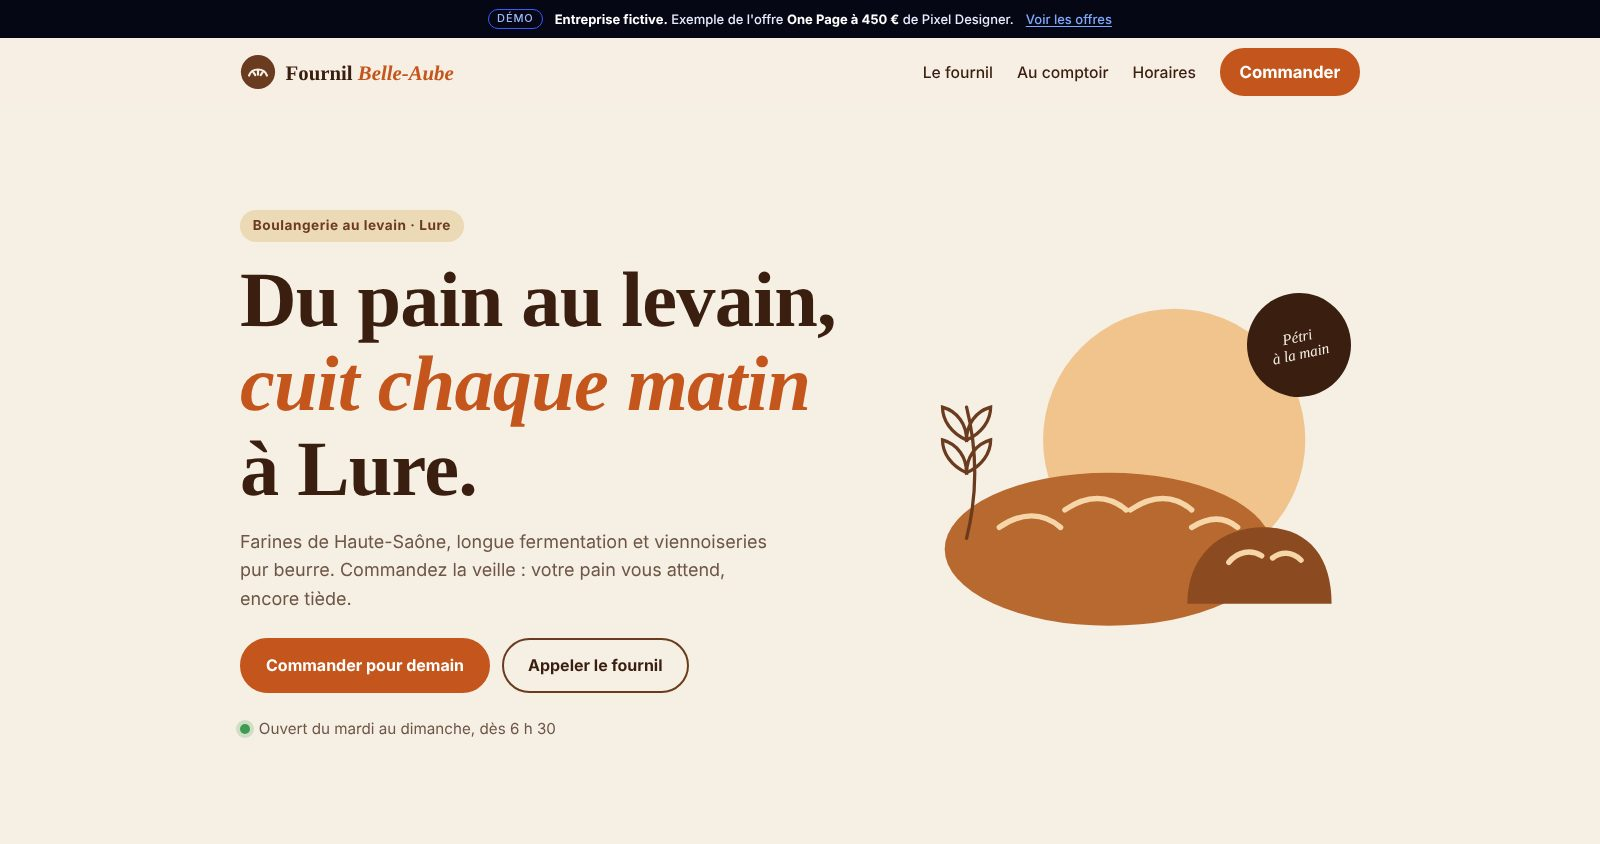
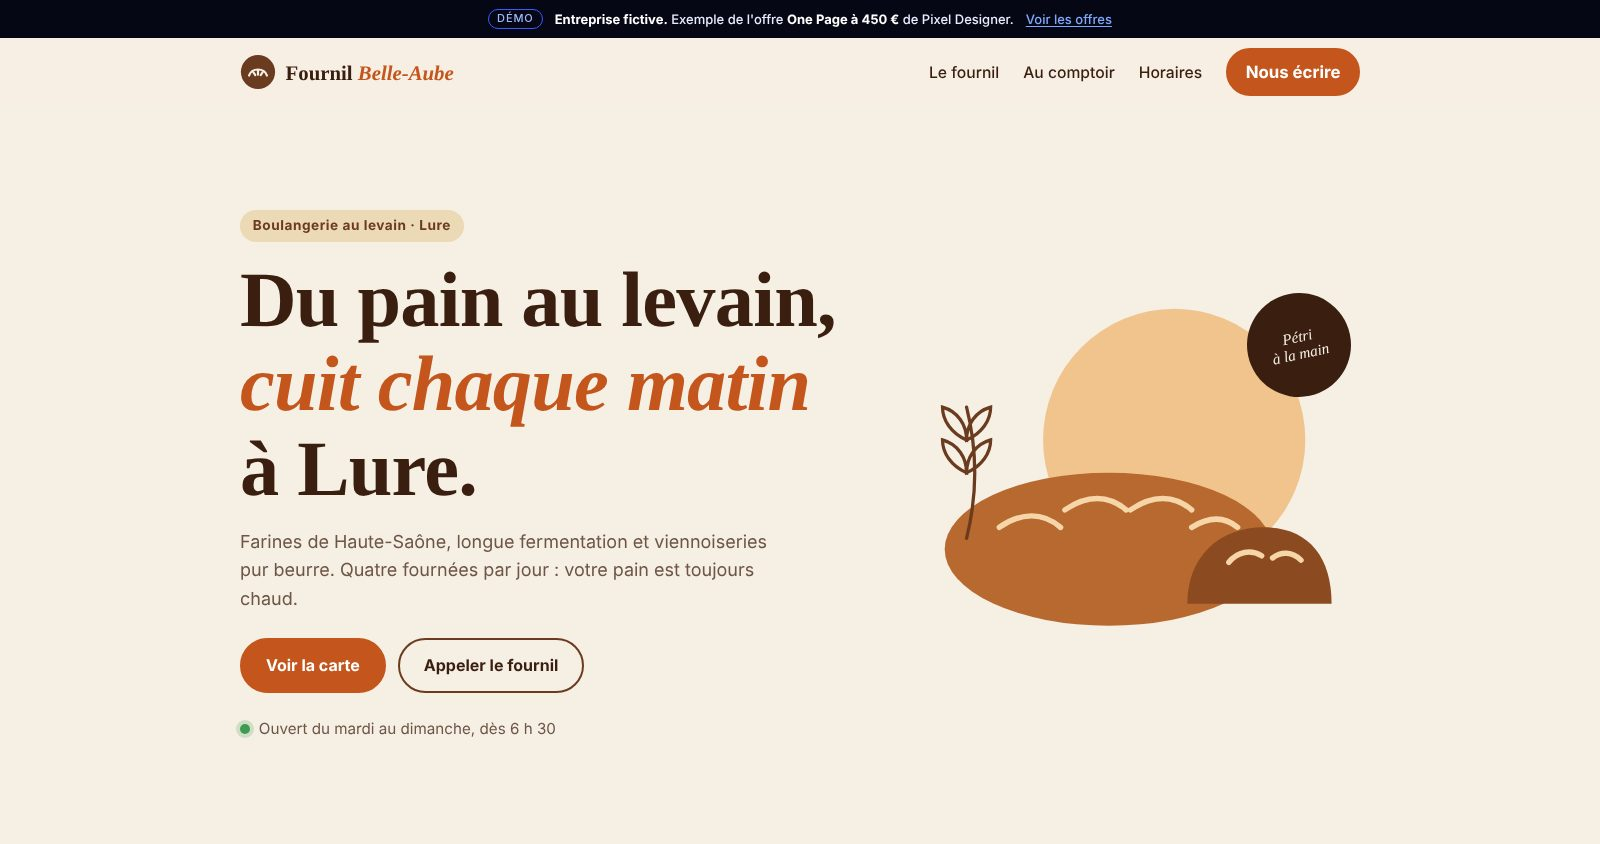
Démos One Page et Vitrine Pro : retire tout ce qui suppose une base de données
- Fournil Belle-Aube : plus de commande en ligne ; le formulaire devient un simple formulaire de contact (inclus dans le One Page), boutons et textes adaptés
- Hydra Confort : plus de « prochain créneau disponible » ni de rappel automatique ; le formulaire de devis reste un simple formulaire de contact
- Pages de confidentialité, carte du carrousel et captures mises à jour

Claude-Session: https://claude.ai/code/session_015nWsnu2XVsU4omenUZcXYH

diff --git a/demos/fournil-belle-aube/index.html b/demos/fournil-belle-aube/index.html
@@ -4,7 +4,7 @@
     <meta charset="UTF-8">
     <meta name="viewport" content="width=device-width, initial-scale=1">
     <title>Boulangerie au levain à Lure | Fournil Belle-Aube (démo)</title>
-    <meta name="description" content="Site de démonstration One Page réalisé par Pixel Designer pour une boulangerie fictive de Lure : horaires, produits, commande en ligne.">
+    <meta name="description" content="Site de démonstration One Page réalisé par Pixel Designer pour une boulangerie fictive de Lure : horaires, produits et formulaire de contact.">
     <meta name="robots" content="noindex, follow">
     <link rel="canonical" href="https://pixeldesigner.fr/demos/fournil-belle-aube/">
     <meta name="theme-color" content="#f6efe4">
@@ -31,7 +31,7 @@
                 <a href="#fournil">Le fournil</a>
                 <a href="#comptoir">Au comptoir</a>
                 <a href="#horaires">Horaires</a>
-                <a class="btn btn-small" href="#commande">Commander</a>
+                <a class="btn btn-small" href="#contact">Nous écrire</a>
             </nav>
         </div>
     </header>
@@ -42,9 +42,9 @@
                 <div class="hero-text">
                     <p class="eyebrow" data-reveal>Boulangerie au levain · Lure</p>
                     <h1 data-reveal>Du pain au levain, <em>cuit chaque matin</em> à Lure.</h1>
-                    <p class="hero-sub" data-reveal>Farines de Haute-Saône, longue fermentation et viennoiseries pur beurre. Commandez la veille&nbsp;: votre pain vous attend, encore tiède.</p>
+                    <p class="hero-sub" data-reveal>Farines de Haute-Saône, longue fermentation et viennoiseries pur beurre. Quatre fournées par jour&nbsp;: votre pain est toujours chaud.</p>
                     <div class="hero-cta" data-reveal>
-                        <a class="btn" href="#commande">Commander pour demain</a>
+                        <a class="btn" href="#comptoir">Voir la carte</a>
                         <a class="btn btn-line" href="#" data-demo="Démo : sur le vrai site, ce bouton appelle la boulangerie en un clic.">Appeler le fournil</a>
                     </div>
                     <p class="hero-open" data-reveal><span class="dot" aria-hidden="true"></span>Ouvert du mardi au dimanche, dès 6&nbsp;h&nbsp;30</p>
@@ -69,8 +69,8 @@
 
         <div class="ticker" aria-hidden="true">
             <div class="ticker-track">
-                <span>Pain au levain</span><span>Baguette de tradition</span><span>Viennoiseries pur beurre</span><span>Tarte aux mirabelles</span><span>Farines de Haute-Saône</span><span>Commande la veille</span>
-                <span>Pain au levain</span><span>Baguette de tradition</span><span>Viennoiseries pur beurre</span><span>Tarte aux mirabelles</span><span>Farines de Haute-Saône</span><span>Commande la veille</span>
+                <span>Pain au levain</span><span>Baguette de tradition</span><span>Viennoiseries pur beurre</span><span>Tarte aux mirabelles</span><span>Farines de Haute-Saône</span><span>Quatre fournées par jour</span>
+                <span>Pain au levain</span><span>Baguette de tradition</span><span>Viennoiseries pur beurre</span><span>Tarte aux mirabelles</span><span>Farines de Haute-Saône</span><span>Quatre fournées par jour</span>
             </div>
         </div>
 
@@ -114,8 +114,8 @@
             <div class="wrap comptoir">
                 <div class="comptoir-head" data-reveal>
                     <h2>Au comptoir <em>cette semaine</em></h2>
-                    <p>Une carte courte, cuite en petites fournées. Les pains spéciaux partent vite&nbsp;: réservez-les.</p>
-                    <a class="btn" href="#commande">Réserver un pain</a>
+                    <p>Une carte courte, cuite en petites fournées. Les pains spéciaux partent vite&nbsp;: passez tôt.</p>
+                    <a class="btn" href="#horaires">Voir les horaires</a>
                 </div>
                 <div class="menu-cols">
                     <div class="menu" data-reveal>
@@ -176,38 +176,34 @@
             </div>
         </section>
 
-        <section class="section" id="commande">
+        <section class="section" id="contact">
             <div class="wrap commande">
                 <div class="commande-text" data-reveal>
-                    <h2>Commandez <em>la veille</em>, retirez le matin</h2>
-                    <p>Indiquez ce que vous voulez et l'heure de passage. Nous vous rappelons seulement s'il y a un souci.</p>
+                    <h2>Une question&nbsp;? <em>Écrivez&#8209;nous</em></h2>
+                    <p>Un gâteau pour un anniversaire, un plateau pour une réunion, une question sur nos farines&nbsp;: laissez-nous un message, nous vous rappelons.</p>
                     <ul class="checks" role="list">
-                        <li>Réponse avant 19&nbsp;h pour le lendemain</li>
-                        <li>Paiement sur place, sans compte à créer</li>
-                        <li>Idéal pour les repas de famille du dimanche</li>
+                        <li>Réponse dans la journée</li>
+                        <li>Pour les gâteaux, prévoyez 48 h</li>
+                        <li>Ou passez directement au comptoir</li>
                     </ul>
                 </div>
-                <form class="form" data-reveal data-demo-form="Merci ! Votre commande est notée pour demain matin. (Démo : rien n'a été envoyé.)">
+                <form class="form" data-reveal data-demo-form="Merci ! Votre message est bien parti, nous vous rappelons dans la journée. (Démo : rien n'a été envoyé.)">
                     <div class="field">
                         <label for="nom">Votre nom</label>
                         <input id="nom" name="nom" type="text" autocomplete="name" required>
                     </div>
                     <div class="field">
-                        <label for="tel">Téléphone</label>
-                        <input id="tel" name="tel" type="tel" autocomplete="tel" inputmode="tel" required>
+                        <label for="tel">Téléphone ou e-mail</label>
+                        <input id="tel" name="contact" type="text" autocomplete="email" required>
                     </div>
                     <div class="field">
-                        <label for="produit">Votre commande</label>
-                        <textarea id="produit" name="produit" rows="3" placeholder="Ex. : 1 campagne, 2 baguettes, 4 croissants" required></textarea>
-                    </div>
-                    <div class="field">
-                        <label for="jour">Jour de retrait</label>
-                        <input id="jour" name="jour" type="date" required>
+                        <label for="message">Votre message</label>
+                        <textarea id="message" name="message" rows="4" placeholder="Ex. : un fraisier pour 10 personnes samedi, c'est possible ?" required></textarea>
                     </div>
                     <p class="hp" aria-hidden="true"><label>Ne pas remplir <input name="site" tabindex="-1" autocomplete="off"></label></p>
-                    <button class="btn btn-full" type="submit">Envoyer ma commande</button>
+                    <button class="btn btn-full" type="submit">Envoyer mon message</button>
                     <p class="form-status" data-form-status role="status"></p>
-                    <p class="rgpd">Vos coordonnées servent uniquement à préparer votre commande. <a href="confidentialite.html">Confidentialité</a></p>
+                    <p class="rgpd">Vos coordonnées servent uniquement à vous répondre. <a href="confidentialite.html">Confidentialité</a></p>
                 </form>
             </div>
         </section>
@@ -219,7 +215,7 @@
                     <p class="section-sub">Une autre question&nbsp;? Posez-la au comptoir ou par téléphone.</p>
                 </div>
                 <div class="faq" data-stagger="80">
-                    <details data-reveal><summary>Puis-je commander pour le jour même&nbsp;?</summary><div><p>Oui, avant 10 h pour un retrait l'après-midi, dans la limite des fournées du jour. Pour être sûr d'avoir votre pain, commandez la veille.</p></div></details>
+                    <details data-reveal><summary>Peut-on vous mettre un pain de côté&nbsp;?</summary><div><p>Oui, appelez-nous le matin et nous le gardons jusqu'à 18 h.</p></div></details>
                     <details data-reveal><summary>Faites-vous du pain sans gluten&nbsp;?</summary><div><p>Non. Toutes nos farines contiennent du gluten et nous ne pouvons pas garantir l'absence de traces. Nous préférons vous le dire clairement.</p></div></details>
                     <details data-reveal><summary>Peut-on payer par carte&nbsp;?</summary><div><p>Oui, par carte et sans contact dès 1&nbsp;€, ou en espèces.</p></div></details>
                     <details data-reveal><summary>Où trouver la liste des allergènes&nbsp;?</summary><div><p>Elle est affichée au comptoir pour chaque produit. Demandez-nous, on vous explique.</p></div></details>
@@ -275,7 +271,7 @@
 
     <nav class="call-bar" aria-label="Actions rapides">
         <a href="#" data-demo="Démo : sur le vrai site, ce bouton appelle la boulangerie en un clic.">Appeler</a>
-        <a href="#commande">Commander</a>
+        <a href="#contact">Nous écrire</a>
     </nav>
 </body>
 </html>

diff --git a/demos/fournil-belle-aube/confidentialite.html b/demos/fournil-belle-aube/confidentialite.html
@@ -31,7 +31,7 @@
                 <a href="index.html#fournil">Le fournil</a>
                 <a href="index.html#comptoir">Au comptoir</a>
                 <a href="index.html#horaires">Horaires</a>
-                <a class="btn btn-small" href="index.html#commande">Commander</a>
+                <a class="btn btn-small" href="index.html#contact">Nous écrire</a>
             </nav>
         </div>
     </header>
@@ -42,14 +42,14 @@
                 <p class="legal-kicker" data-reveal>Vos données</p>
                 <h1 data-reveal>Politique de confidentialité</h1>
                 <p class="legal-lead" data-reveal>Ce que ce site fait, et ne fait pas, de vos informations.</p>
-                <p class="legal-note" data-reveal><strong>Site de démonstration.</strong> Fournil Belle-Aube est une entreprise fictive. Le formulaire de commande de cette démo n'envoie rien : aucune donnée n'est transmise ni conservée.</p>
+                <p class="legal-note" data-reveal><strong>Site de démonstration.</strong> Fournil Belle-Aube est une entreprise fictive. Le formulaire de contact de cette démo n'envoie rien : aucune donnée n'est transmise ni conservée.</p>
 
                 <h2>Responsable du traitement</h2>
                 <p>Pixel Designer, Rayan Robert (EI), 5 Route de la Saline, 70200 Lure. Contact&nbsp;: <a href="mailto:studio.pixeldesigner@proton.me">studio.pixeldesigner@proton.me</a>.</p>
 
                 <h2>Données collectées</h2>
                 <ul>
-                    <li><strong>Formulaire de commande</strong>&nbsp;: nom, téléphone, commande et jour de retrait. Dans cette démo, rien n'est envoyé&nbsp;: les champs sont vidés dès que vous validez.</li>
+                    <li><strong>Formulaire de contact</strong>&nbsp;: nom, téléphone ou e-mail, et message. Dans cette démo, rien n'est envoyé&nbsp;: les champs sont vidés dès que vous validez.</li>
                     <li><strong>Aucune autre donnée</strong>&nbsp;: pas de compte, pas de suivi de navigation.</li>
                 </ul>
 
@@ -60,7 +60,7 @@
                 <p>Le site est hébergé par GitHub Pages (GitHub, Inc., États-Unis). Comme tout hébergeur, GitHub peut enregistrer des données techniques de connexion (adresse IP, navigateur) pour la sécurité du service. Ces transferts sont encadrés par les clauses contractuelles types de la Commission européenne.</p>
 
                 <h2>Sur le site d'un vrai client</h2>
-                <p>Les formulaires envoient réellement les demandes au professionnel, par un service d'envoi sécurisé. Les informations servent uniquement à répondre et à organiser le rendez-vous (préparer la commande). Elles sont conservées au maximum 3 ans après le dernier contact, puis supprimées, et ne sont jamais vendues.</p>
+                <p>Les formulaires envoient réellement les demandes au professionnel, par un service d'envoi sécurisé. Les informations servent uniquement à répondre à la demande. Elles sont conservées au maximum 3 ans après le dernier contact, puis supprimées, et ne sont jamais vendues.</p>
 
                 <h2>Vos droits</h2>
                 <p>Conformément au RGPD, vous pouvez demander l'accès, la rectification ou la suppression de vos données, et vous opposer à leur traitement. Écrivez à <a href="mailto:studio.pixeldesigner@proton.me">studio.pixeldesigner@proton.me</a>. Vous pouvez aussi saisir la CNIL (<a href="https://www.cnil.fr" target="_blank" rel="noopener">cnil.fr</a>).</p>

diff --git a/demos/hydra-confort/prestations.html b/demos/hydra-confort/prestations.html
@@ -77,8 +77,8 @@
                     <div class="presta-visual"><span class="presta-ico"><svg class="ico" viewBox="0 0 24 24" aria-hidden="true"><path d="M12 22s8-4 8-10V5l-8-3-8 3v7c0 6 8 10 8 10z"/><path d="m9 12 2 2 4-4"/></svg></span></div>
                     <div class="presta-text">
                         <h2>Entretien annuel</h2>
-                        <p>L'entretien de chaudière est obligatoire chaque année. Nous vous rappelons la date, vous n'avez rien à suivre.</p>
-                        <ul class="list-check" role="list"><li><svg class="ico ico-sm" viewBox="0 0 24 24" aria-hidden="true"><path d="M20 6 9 17l-5-5"/></svg>Contrôle et nettoyage complet</li><li><svg class="ico ico-sm" viewBox="0 0 24 24" aria-hidden="true"><path d="M20 6 9 17l-5-5"/></svg>Attestation d'entretien</li><li><svg class="ico ico-sm" viewBox="0 0 24 24" aria-hidden="true"><path d="M20 6 9 17l-5-5"/></svg>Rappel automatique chaque année</li><li><svg class="ico ico-sm" viewBox="0 0 24 24" aria-hidden="true"><path d="M20 6 9 17l-5-5"/></svg>Contrat sur demande</li></ul>
+                        <p>L'entretien de chaudière est obligatoire chaque année. Nous vous appelons quand la date approche, vous n'avez rien à suivre.</p>
+                        <ul class="list-check" role="list"><li><svg class="ico ico-sm" viewBox="0 0 24 24" aria-hidden="true"><path d="M20 6 9 17l-5-5"/></svg>Contrôle et nettoyage complet</li><li><svg class="ico ico-sm" viewBox="0 0 24 24" aria-hidden="true"><path d="M20 6 9 17l-5-5"/></svg>Attestation d'entretien</li><li><svg class="ico ico-sm" viewBox="0 0 24 24" aria-hidden="true"><path d="M20 6 9 17l-5-5"/></svg>Appel de rappel chaque année</li><li><svg class="ico ico-sm" viewBox="0 0 24 24" aria-hidden="true"><path d="M20 6 9 17l-5-5"/></svg>Contrat sur demande</li></ul>
                         <a class="btn btn-small" href="contact.html">Demander un devis</a>
                     </div>
                 </article>

diff --git a/demos/cycles-du-breuchin/confidentialite.html b/demos/cycles-du-breuchin/confidentialite.html
@@ -63,7 +63,7 @@
                 <p>Le site est hébergé par GitHub Pages (GitHub, Inc., États-Unis). Comme tout hébergeur, GitHub peut enregistrer des données techniques de connexion (adresse IP, navigateur) pour la sécurité du service. Ces transferts sont encadrés par les clauses contractuelles types de la Commission européenne.</p>
 
                 <h2>Sur le site d'un vrai client</h2>
-                <p>Les formulaires envoient réellement les demandes au professionnel, par un service d'envoi sécurisé. Les informations servent uniquement à répondre et à organiser le rendez-vous, prévenir le client quand son vélo est prêt (SMS), et sont stockées dans une base de données protégée, accessible au seul atelier. Elles sont conservées au maximum 3 ans après le dernier contact, puis supprimées, et ne sont jamais vendues.</p>
+                <p>Les formulaires envoient réellement les demandes au professionnel, par un service d'envoi sécurisé. Les informations servent uniquement à répondre à la demande, à organiser le rendez-vous, à prévenir le client quand son vélo est prêt (SMS), et sont stockées dans une base de données protégée, accessible au seul atelier. Elles sont conservées au maximum 3 ans après le dernier contact, puis supprimées, et ne sont jamais vendues.</p>
 
                 <h2>Vos droits</h2>
                 <p>Conformément au RGPD, vous pouvez demander l'accès, la rectification ou la suppression de vos données, et vous opposer à leur traitement. Écrivez à <a href="mailto:studio.pixeldesigner@proton.me">studio.pixeldesigner@proton.me</a>. Vous pouvez aussi saisir la CNIL (<a href="https://www.cnil.fr" target="_blank" rel="noopener">cnil.fr</a>).</p>

diff --git a/demos/hydra-confort/index.html b/demos/hydra-confort/index.html
@@ -56,13 +56,13 @@
                 <div class="hero-visual" aria-hidden="true" data-parallax="0.05">
                     <svg class="pipes" viewBox="0 0 400 400"><path d="M40 360V220a40 40 0 0 1 40-40h120a40 40 0 0 0 40-40V40"/><path d="M360 360V280a40 40 0 0 0-40-40h-40"/><circle cx="240" cy="40" r="14"/><circle cx="40" cy="360" r="14"/></svg>
                     <div class="widget">
-                        <p class="widget-label">Prochain créneau</p>
-                        <p class="widget-value">Demain, 8&nbsp;h</p>
-                        <p class="widget-meta"><span class="live"></span> Technicien disponible</p>
+                        <p class="widget-label">Devis</p>
+                        <p class="widget-value">Gratuit</p>
+                        <p class="widget-meta"><span class="live"></span> Réponse sous 24 h ouvrées</p>
                     </div>
                     <div class="widget widget-2">
                         <span class="widget-ico"><svg class="ico" viewBox="0 0 24 24" aria-hidden="true"><path d="M8.5 14.5A2.5 2.5 0 0 0 11 12c0-1.4-.5-2-1-3-1.1-2.1-.2-4.1 2-6 .5 2.5 2 4.9 4 6.5 2 1.6 3 3.5 3 5.5a7 7 0 1 1-14 0c0-1.2.4-2.3 1-3.4.4 1.6 1.4 2.9 2.5 2.9z"/></svg></span>
-                        <div><p class="widget-label">Entretien chaudière</p><p class="widget-meta">Rappel envoyé chaque année</p></div>
+                        <div><p class="widget-label">Urgence fuite</p><p class="widget-meta">Le samedi matin aussi</p></div>
                     </div>
                 </div>
             </div>

diff --git a/demos/hydra-confort/confidentialite.html b/demos/hydra-confort/confidentialite.html
@@ -60,7 +60,7 @@
                 <p>Le site est hébergé par GitHub Pages (GitHub, Inc., États-Unis). Comme tout hébergeur, GitHub peut enregistrer des données techniques de connexion (adresse IP, navigateur) pour la sécurité du service. Ces transferts sont encadrés par les clauses contractuelles types de la Commission européenne.</p>
 
                 <h2>Sur le site d'un vrai client</h2>
-                <p>Les formulaires envoient réellement les demandes au professionnel, par un service d'envoi sécurisé. Les informations servent uniquement à répondre et à organiser le rendez-vous (établir le devis). Elles sont conservées au maximum 3 ans après le dernier contact, puis supprimées, et ne sont jamais vendues.</p>
+                <p>Les formulaires envoient réellement les demandes au professionnel, par un service d'envoi sécurisé. Les informations servent uniquement à répondre à la demande et à établir le devis. Elles sont conservées au maximum 3 ans après le dernier contact, puis supprimées, et ne sont jamais vendues.</p>
 
                 <h2>Vos droits</h2>
                 <p>Conformément au RGPD, vous pouvez demander l'accès, la rectification ou la suppression de vos données, et vous opposer à leur traitement. Écrivez à <a href="mailto:studio.pixeldesigner@proton.me">studio.pixeldesigner@proton.me</a>. Vous pouvez aussi saisir la CNIL (<a href="https://www.cnil.fr" target="_blank" rel="noopener">cnil.fr</a>).</p>

diff --git a/demos/fournil-belle-aube/mentions-legales.html b/demos/fournil-belle-aube/mentions-legales.html
@@ -31,7 +31,7 @@
                 <a href="index.html#fournil">Le fournil</a>
                 <a href="index.html#comptoir">Au comptoir</a>
                 <a href="index.html#horaires">Horaires</a>
-                <a class="btn btn-small" href="index.html#commande">Commander</a>
+                <a class="btn btn-small" href="index.html#contact">Nous écrire</a>
             </nav>
         </div>
     </header>
@@ -71,7 +71,7 @@
                 <p>Les textes, illustrations, logos et la mise en page de ce site sont la propriété de Pixel Designer. Le nom «&nbsp;Fournil Belle-Aube&nbsp;», son logo et ses coordonnées sont inventés pour la démonstration&nbsp;: toute ressemblance avec une entreprise existante serait fortuite. Toute reproduction est interdite sans autorisation écrite.</p>
 
                 <h2>Données personnelles</h2>
-                <p>Le formulaire de commande de cette démo n'envoie rien : aucune donnée n'est transmise ni conservée. Le détail figure dans la <a href="confidentialite.html">politique de confidentialité</a>.</p>
+                <p>Le formulaire de contact de cette démo n'envoie rien : aucune donnée n'est transmise ni conservée. Le détail figure dans la <a href="confidentialite.html">politique de confidentialité</a>.</p>
 
                 <p class="legal-updated">Dernière mise à jour&nbsp;: 17 novembre 2026.</p>
             </div>

diff --git a/index.html b/index.html
@@ -377,10 +377,10 @@
                             <div class="work-info">
                                 <p class="meta"><span>Démo One Page · Lure</span><span>Nov. 2026</span></p>
                                 <h3 class="work-title">Fournil Belle-Aube</h3>
-                                <p class="muted">Boulangerie fictive, créée pour montrer l'offre One Page à 450 € : une seule page claire, la carte, les horaires et la commande en ligne.</p>
+                                <p class="muted">Boulangerie fictive, créée pour montrer l'offre One Page à 450 € : une seule page claire avec la carte, les horaires et un formulaire de contact.</p>
                                 <ul class="chips" role="list">
                                     <li>One Page</li>
-                                    <li>Commande en ligne</li>
+                                    <li>Formulaire de contact</li>
                                     <li>Mobile first</li>
                                 </ul>
                                 <a class="btn btn-ghost" href="https://pixeldesigner.fr/demos/fournil-belle-aube/" target="_blank" rel="noopener">Voir le site <i class="ph ph-arrow-up-right" aria-hidden="true"></i></a>
